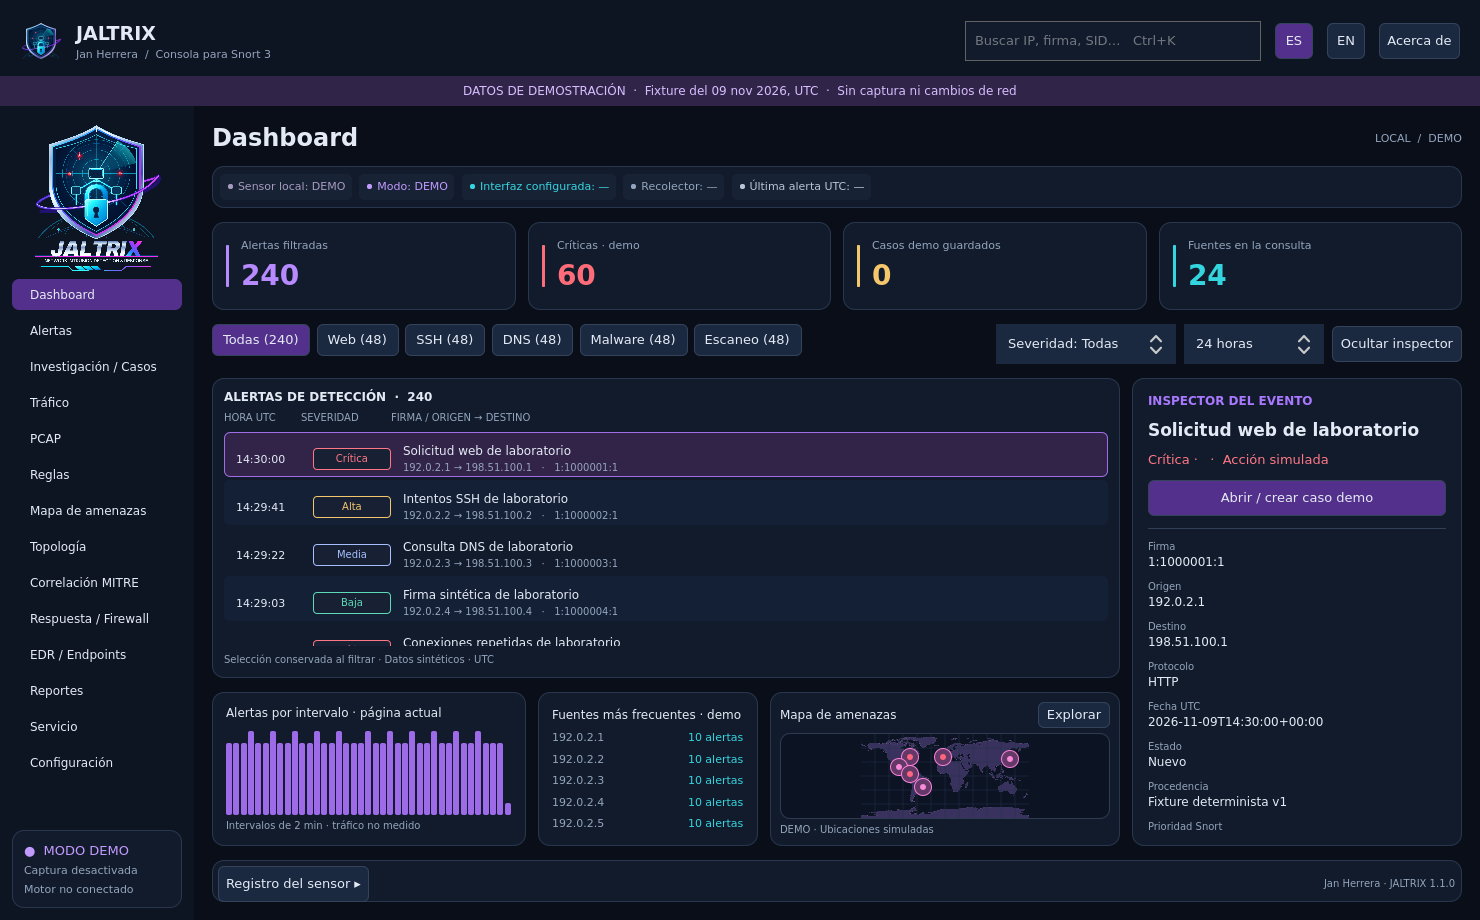
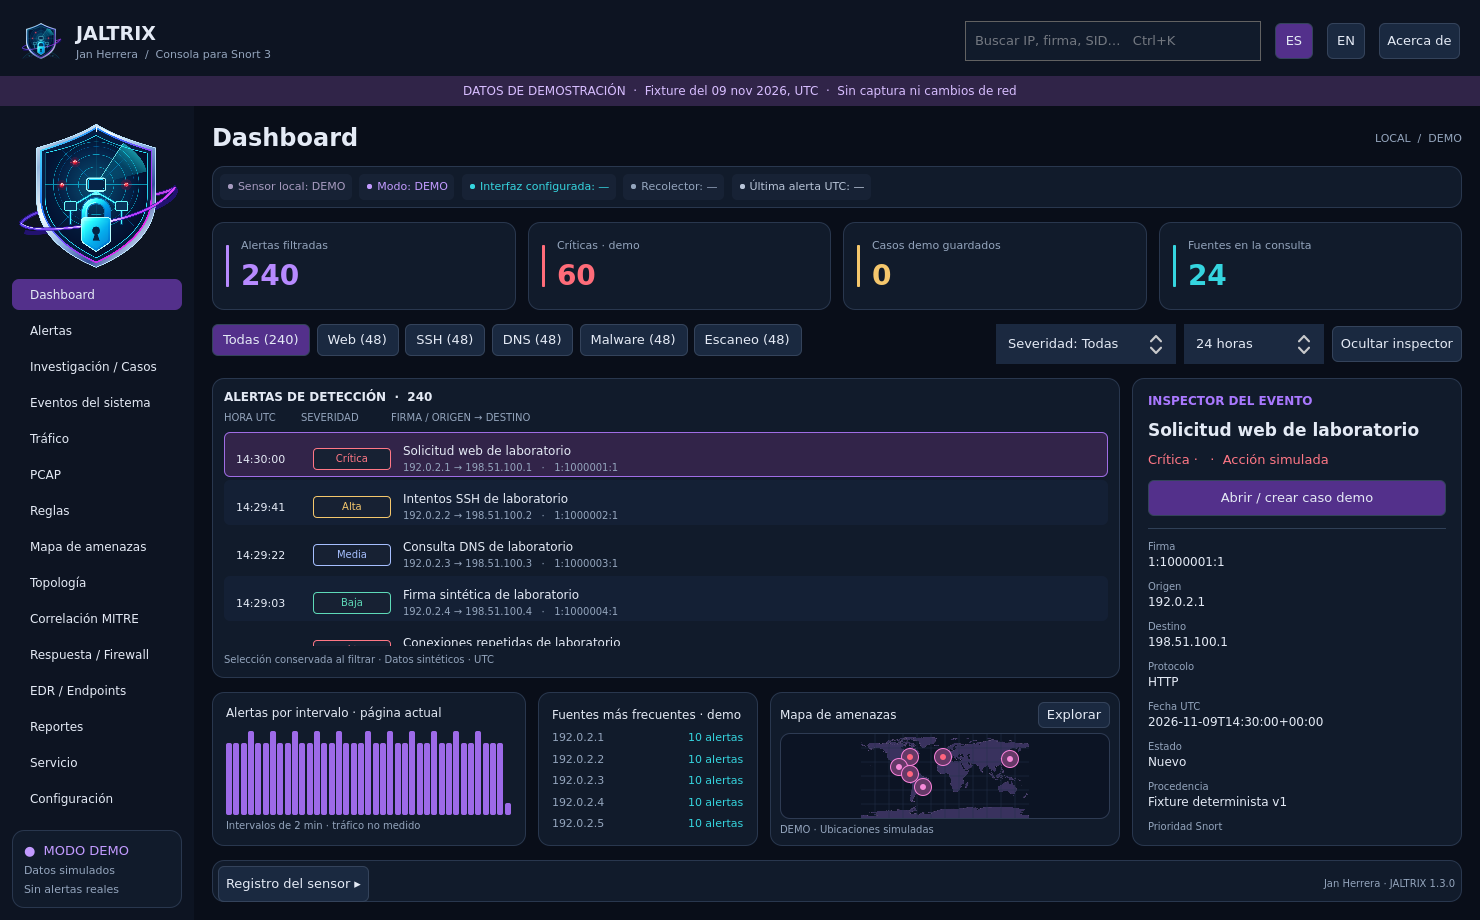
Show initial source backlog and document verified audit catch-up

diff --git a/src/jaltrix/ui/HostView.qml b/src/jaltrix/ui/HostView.qml
@@ -36,6 +36,7 @@ Rectangle {
         if (source.state === "permission_denied" || source.state === "error") return stateLabel(source.state);
         if (host.status.state === "stopped") return tr("Detenido");
         if (host.status.fresh === false && host.status.state !== "stopped") return tr("Sin actualización reciente");
+        if (source.backlog) return tr("Procesando historial pendiente");
         return stateLabel(source.state);
     }
     function loadConfig() {

diff --git a/tools/test_host_sources_vm.py b/tools/test_host_sources_vm.py
@@ -98,6 +98,58 @@ def main():
             root = Path(temporary)
             data = root / "data"
             save_config(data, dict(journal_enabled=True, audit_enabled=True))
+            # Exercise production historical catch-up before adding the watched operation.
+            # No cursor is seeded and no existing record is skipped to shorten the test.
+            started = time.monotonic()
+            progress_at = started
+            initial_bytes = Path("/var/log/audit/audit.log").stat().st_size
+            while True:
+                caught_up = collect_once(data)
+                audit_status = caught_up["sources"]["audit"]
+                elapsed = time.monotonic() - started
+                if audit_status["state"] not in (
+                    "reading_existing_log",
+                    "invalid_records",
+                ):
+                    raise AssertionError(
+                        "Audit source could not read existing history: "
+                        + audit_status["state"]
+                    )
+                if not audit_status.get("backlog") and not audit_status.get("pending"):
+                    summary["historical_catchup"] = dict(
+                        seconds=round(elapsed, 2),
+                        initial_audit_bytes=initial_bytes,
+                        stored_events=caught_up["stored"],
+                        skipped_records=0,
+                        checkpoint_seeded=False,
+                    )
+                    break
+                if elapsed >= 300:
+                    summary["historical_catchup"] = dict(
+                        seconds=round(elapsed, 2),
+                        result="TIMEOUT",
+                        initial_audit_bytes=initial_bytes,
+                    )
+                    raise AssertionError(
+                        "Production audit catch-up exceeded the 300-second lab budget"
+                    )
+                if time.monotonic() - progress_at >= 15:
+                    print(
+                        json.dumps(
+                            dict(
+                                stage="historical_audit_catchup",
+                                elapsed_seconds=round(elapsed, 1),
+                                pending=audit_status.get("pending"),
+                                backlog=audit_status.get("backlog"),
+                            )
+                        ),
+                        flush=True,
+                    )
+                    progress_at = time.monotonic()
+                if not audit_status.get("examined") and not audit_status.get(
+                    "inserted"
+                ):
+                    time.sleep(min(3.1, 300 - elapsed))
             run(["sudo", "-n", "auditctl", "-w", str(target), "-p", "wa", "-k", key])
             watch_added = True
             run(["sudo", "-n", "/usr/bin/true"])
@@ -147,6 +199,14 @@ def main():
                         and event["auid"] == os.getuid()
                         and any(key in line for line in event["raw_record"])
                     ]
+                    summary.update(
+                        journal_auth_verified=bool(auth),
+                        sudo_rs_verified=bool(sudo),
+                        audit_actor_verified=bool(own_audit),
+                        journal_auth_events=len(auth),
+                        journal_sudo_events=len(sudo),
+                        watched_file_events=len(own_audit),
+                    )
                     if found and own_audit and auth and sudo:
                         break
                 finally:

diff --git a/src/jaltrix/localization.py b/src/jaltrix/localization.py
@@ -631,6 +631,7 @@ EN_US.update(
         "Acceso parcial": "Partial access",
         "Seguimiento activo": "Following logs",
         "Leyendo registro existente": "Reading existing log",
+        "Procesando historial pendiente": "Processing pending history",
         "Posición del registro no disponible": "Log cursor unavailable",
         "Registros no válidos": "Invalid records",
         "Una o más fuentes tienen problemas": "One or more sources have problems",

diff --git a/docs/LOCAL_OBSERVABILITY.md b/docs/LOCAL_OBSERVABILITY.md
@@ -59,3 +59,7 @@ No new root helper, automatic audit rules, broad permission grants, cloud upload
 La vista muestra hasta 100 correlaciones recientes; los eventos originales se consultan por páginas de 100. La regla que enlaza red, SSH y sudo evalúa como máximo los 64 accesos SSH más recientes del usuario dentro de su ventana de diez minutos, para limitar el trabajo ante ráfagas. Las tres reglas no cubren todas las técnicas ni sustituyen una revisión manual. El trabajo pendiente de correlación se conserva y continúa en los siguientes ciclos del recolector.
 
 The UI lists up to 100 recent correlations and pages original observations by 100. The network/SSH/sudo rule considers at most the most recent 64 matching SSH logins in its ten-minute window. This is a bounded investigation aid, not complete detection coverage. Pending correlation work persists across collector cycles and restarts.
+
+Al seleccionar un archivo audit con historial, la primera carga puede tardar varios ciclos. El estado «Procesando historial pendiente» refleja ese trabajo (`backlog`); mientras alcance el final no debe interpretarse como seguimiento en tiempo real. El journal se inicia con una ventana de 15 minutos, mientras que audit lee desde el principio del archivo seleccionado.
+
+An existing audit log is read from its beginning, so initial historical catch-up can take multiple bounded cycles. A backlog means the collector has not yet reached the current end of that source; do not treat it as fully caught-up live monitoring.
